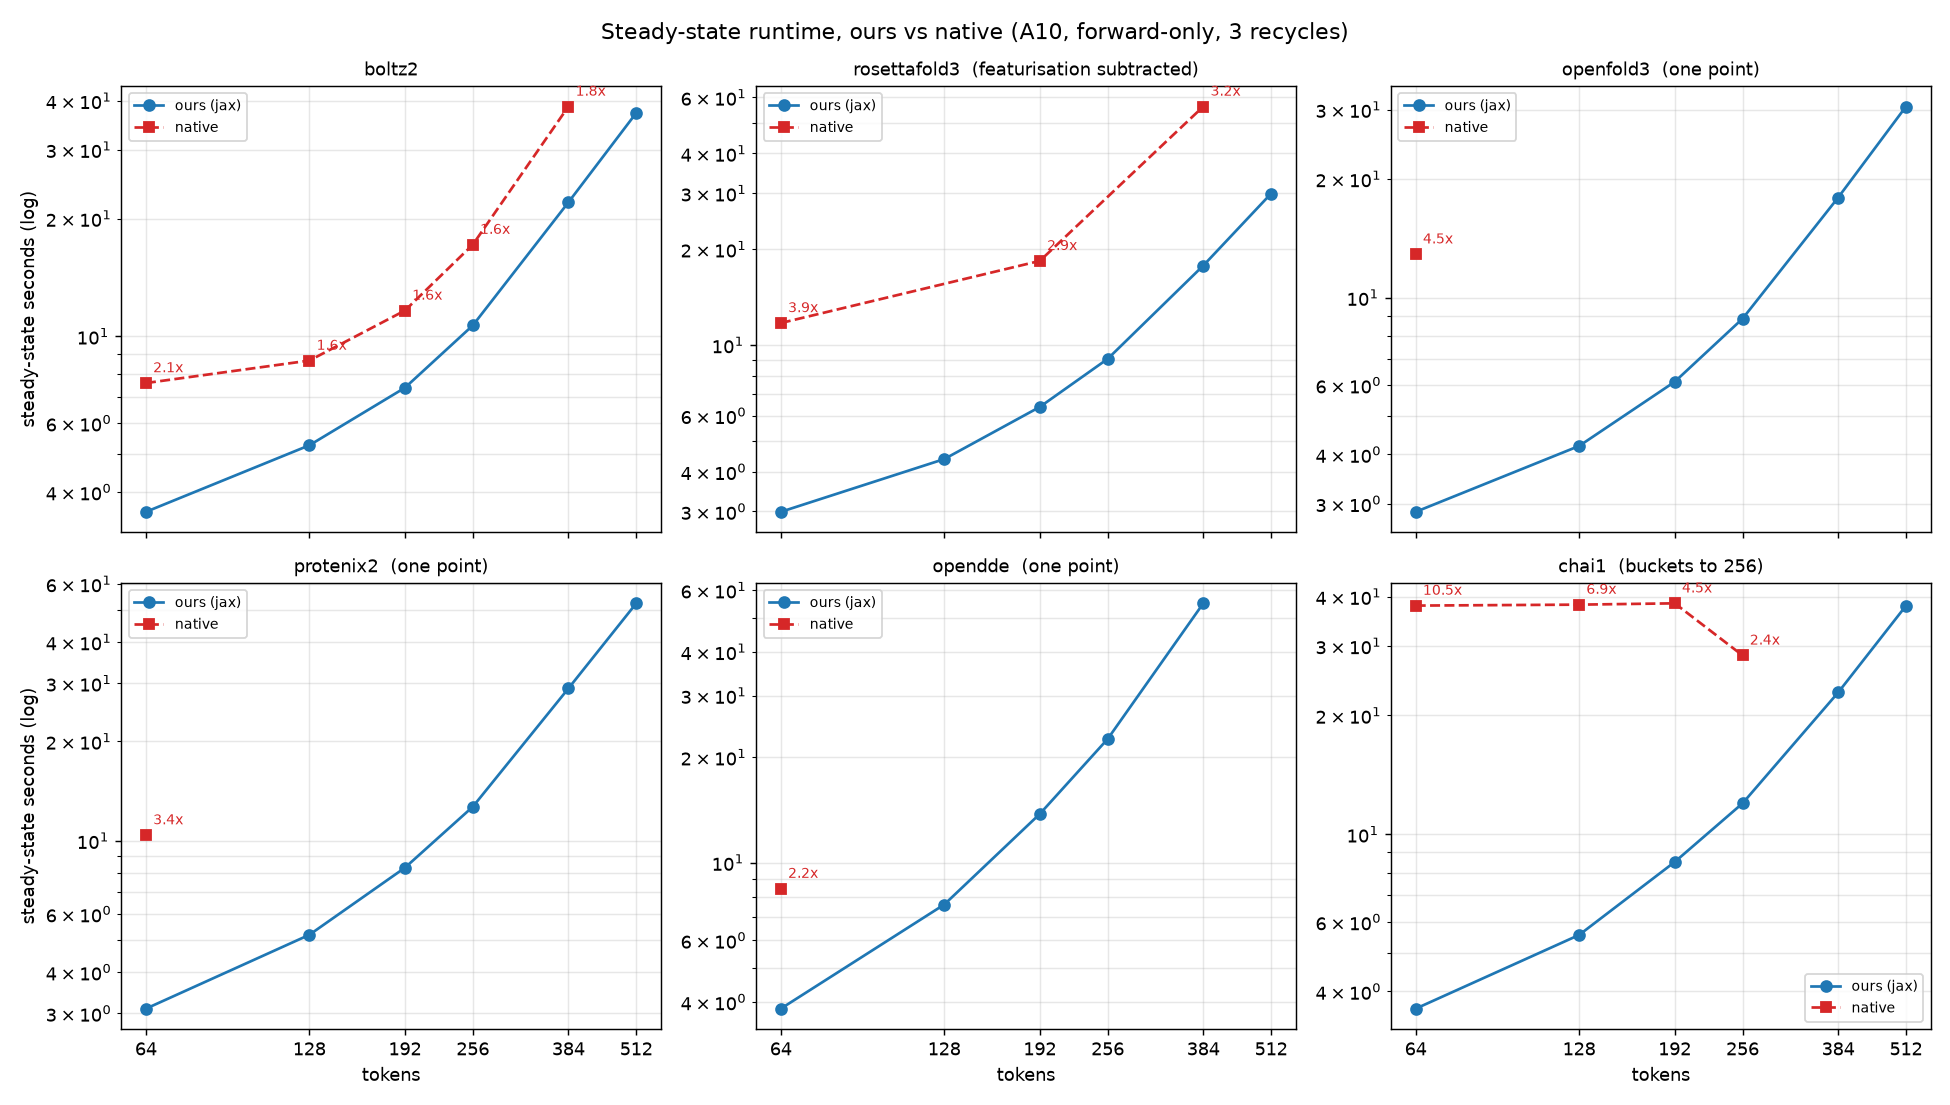
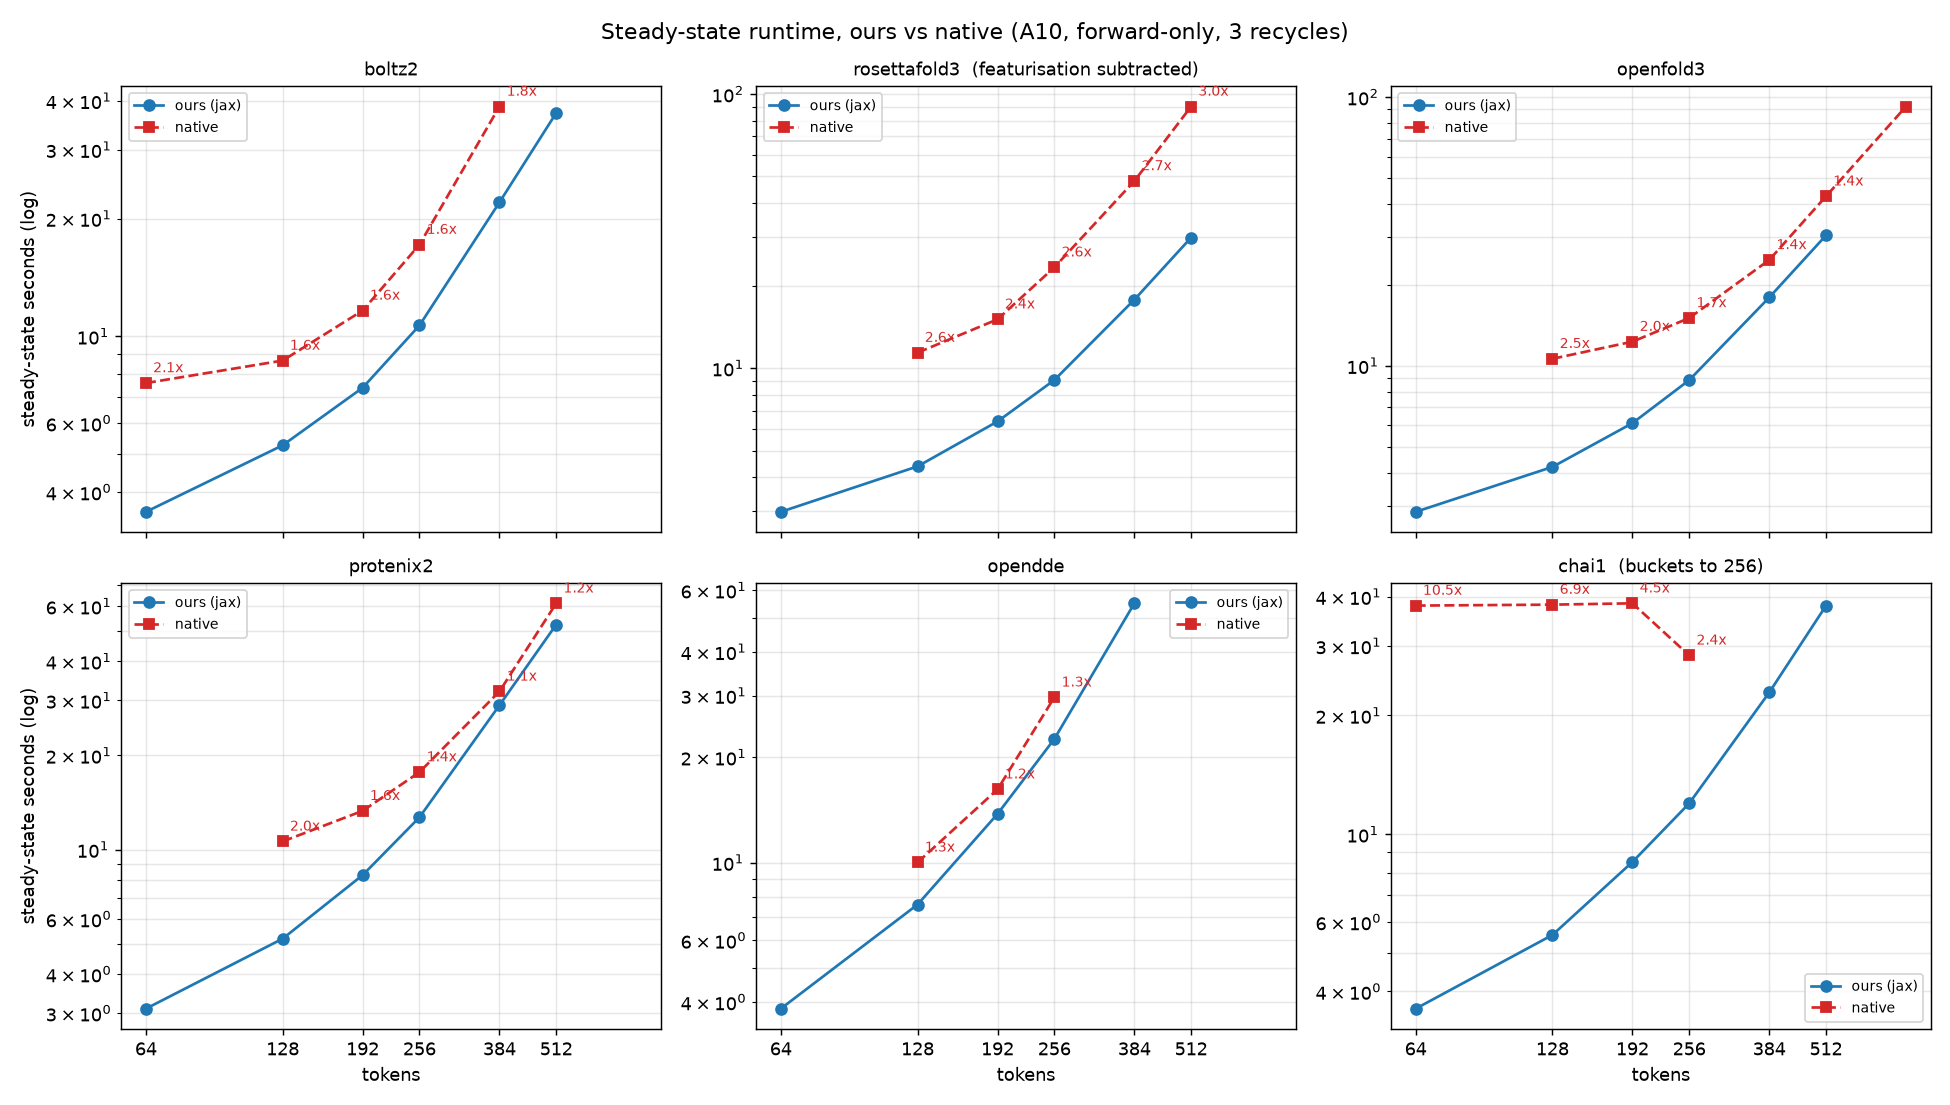
native sweep, same session as ours, and the plot redrawn from it
Four models now have a real curve across five or six lengths instead of
a single 2026-09-03 point: rosettafold3, protenix2, opendde, openfold3.
The plot parses the TSV, taking `steady-minus-featurise` for rf3 (whose
steady includes featurisation, where ours does not) and `steady` for the
rest, and dropping FAILED/OOM/NO_TIMINGS rather than plotting them as
zero.

What the curves say, which a single point could not: the speedup DECAYS
with size, and how fast depends on the model.

    openfold3   2.53x at 128  ->  1.40x at 512
    protenix2   2.05x         ->  1.17x
    rosettafold3 2.60x        ->  3.01x   (the exception: it holds)
    opendde     1.32x         ->  1.31x   (never much)

So the headline "2-4x" is a short-input number for most of these. Ours
still wins at every length measured, but by 17-40% at 512 rather than
2x, except against rosettafold3.

Gaps, stated rather than hidden: boltz2 needs its preprocessed input
dirs, which lived in the scratchpad and are gone -- its column is still
the 2026-09-03 fallback. chai-1's venv has no chai_lab any more. opendde
above 256 and protenix2 at 768 print NO_TIMINGS (predict never called),
which is their own harness refusing, not a crash.

diff --git a/dev/bench/results/plot_vs_native.py b/dev/bench/results/plot_vs_native.py
@@ -22,8 +22,15 @@ import matplotlib.pyplot as plt
 OURS = sys.argv[1]
 OUT = sys.argv[2] if len(sys.argv) > 2 else 'ours_vs_native.png'
 
-# model -> {length: seconds}, forward-only natives
-NATIVE = {
+# Natives are parsed from run_native_sweep.sh's TSV when one is given, else
+# they fall back to the 2026-09-03 single points below.
+#
+# WHICH FIELD, per harness -- getting this wrong is the whole error:
+#   rosettafold3  `steady-minus-featurise`, because its steady INCLUDES
+#                 featurisation and ours does not.
+#   others        `steady`, already model-only and warm.
+# FAILED / OOM / NO_TIMINGS rows are dropped, not plotted as zero.
+FALLBACK = {
     'boltz2':       {64: 7.594, 128: 8.669, 192: 11.639, 256: 17.151, 384: 38.686},
     'rosettafold3': {64: 11.725, 192: 18.382, 384: 56.190},
     'openfold3':    {64: 12.880},
@@ -31,8 +38,31 @@ NATIVE = {
     'opendde':      {64: 8.425},
     'chai1':        {64: 37.967, 128: 38.177, 192: 38.470, 256: 28.394},
 }
-NOTE = {'chai1': 'buckets to 256', 'rosettafold3': 'featurisation subtracted',
-        'openfold3': 'one point', 'protenix2': 'one point', 'opendde': 'one point'}
+NOTE = {'chai1': 'buckets to 256', 'rosettafold3': 'featurisation subtracted'}
+
+
+def parse_native(path):
+    import re
+    out = collections.defaultdict(dict)
+    for line in open(path):
+        f = line.rstrip('\n').split('\t')
+        if len(f) < 3 or any(k in f[2] for k in ('FAILED', 'OOM', 'NO_TIMINGS')):
+            continue
+        m, L, txt = f[0], int(f[1]), f[2]
+        key = 'steady-minus-featurise' if 'steady-minus-featurise' in txt else 'steady'
+        hit = re.search(key + r'\s+([0-9.]+)', txt)
+        if hit:
+            out[m][L] = float(hit.group(1))
+    return out
+
+
+NATIVE = dict(FALLBACK)
+if len(sys.argv) > 3:
+    parsed = parse_native(sys.argv[3])
+    for m, d in parsed.items():
+        NATIVE[m] = d                      # a fresh same-session curve wins outright
+    print('natives from', sys.argv[3], '->',
+          {m: len(d) for m, d in parsed.items()})
 
 ours = collections.defaultdict(lambda: collections.defaultdict(list))
 for line in open(OURS):
@@ -44,7 +74,7 @@ for line in open(OURS):
     except ValueError:
         pass
 
-models = [m for m in NATIVE if m in ours]
+models = [m for m in NATIVE if m in ours and NATIVE[m]]
 fig, axes = plt.subplots(2, 3, figsize=(15, 8.5), sharex=True)
 for ax, m in zip(axes.flat, models):
     L = sorted(ours[m])
